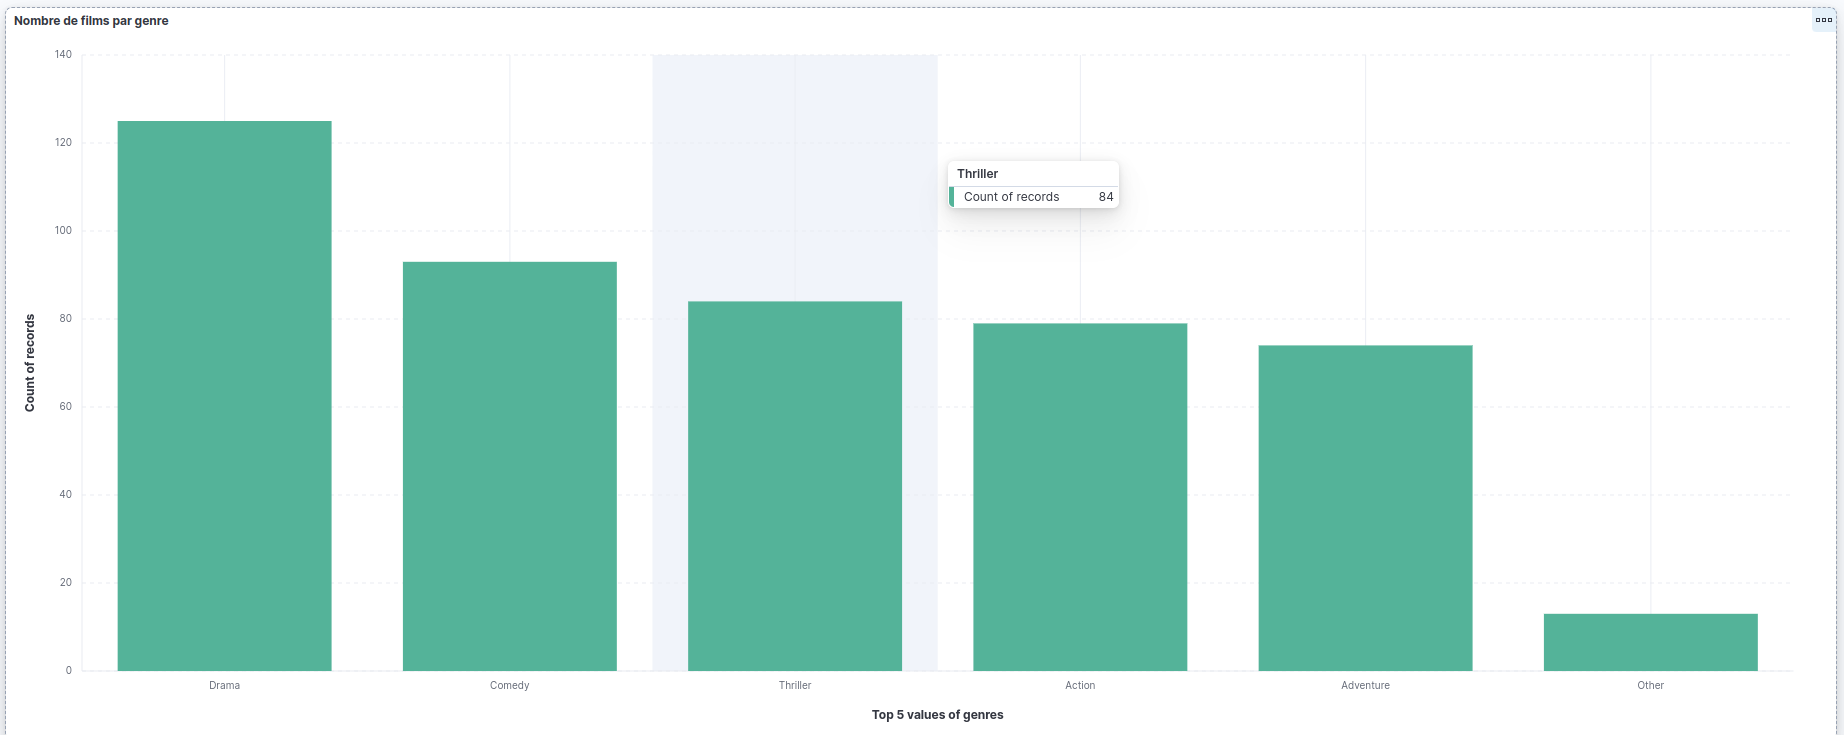
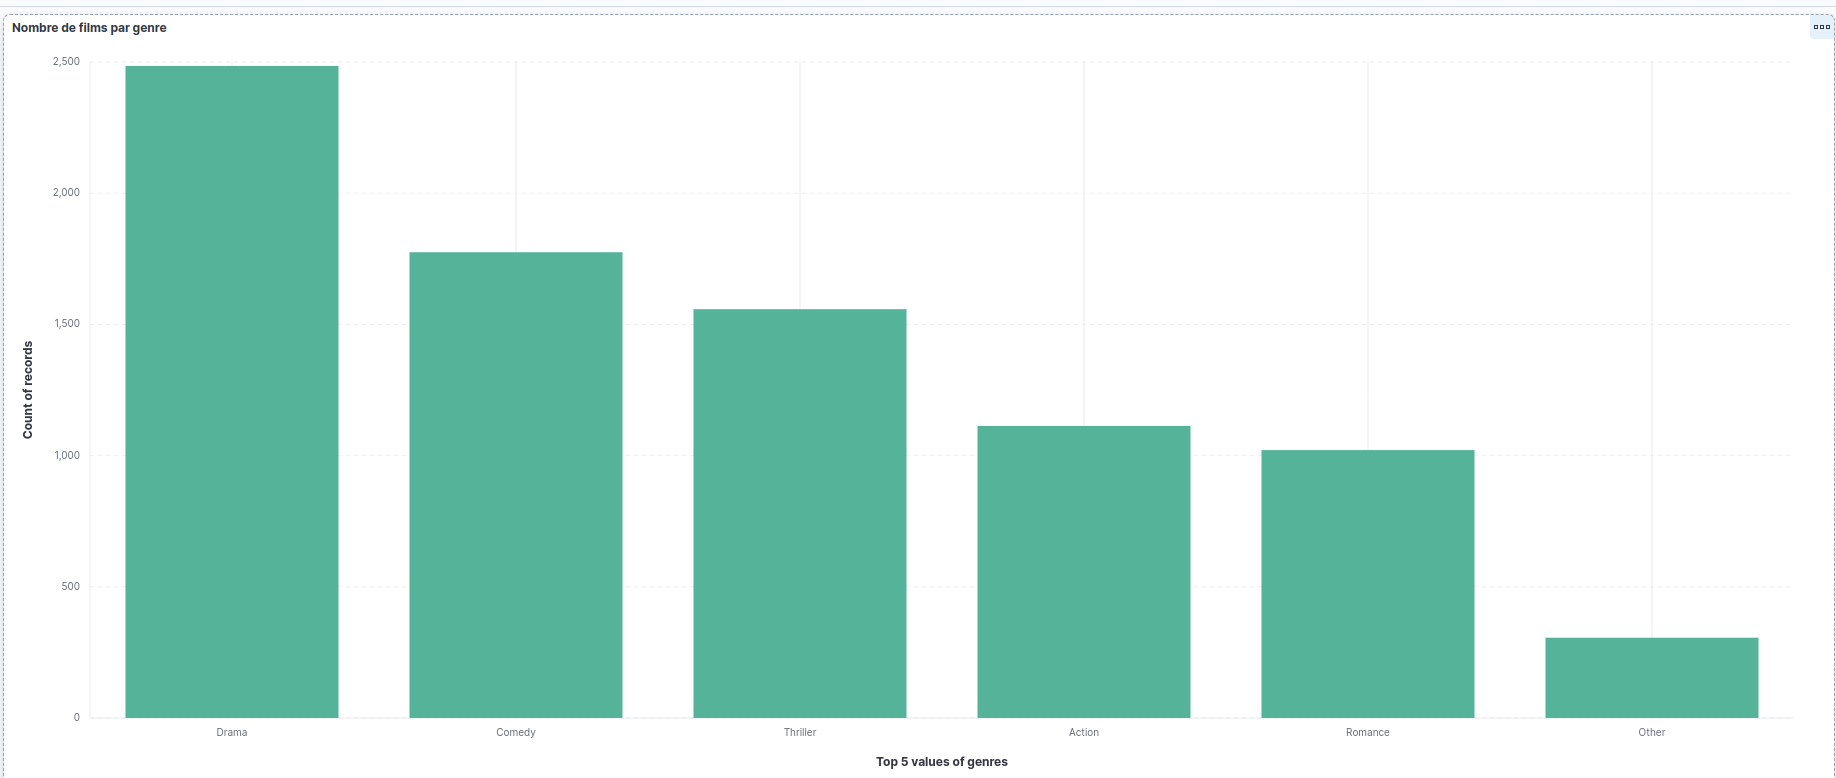
[FIX] Problème dans l'affichage des résultats

diff --git a/src/analytics.py b/src/analytics.py
@@ -1,17 +1,49 @@
 def global_stats(es, index="movies"):
     """Calcule les statistiques globales du dataset."""
-    aggs = {"avg_rating" :{"avg": {"field": "rating"}},
-            "min_rating" :{"min": {"field": "rating"}},
-            "max_rating" :{"max": {"field": "rating"}}}
-    result = es.search(index=index, size=0, aggs=aggs)
-    aggregations = result['aggregations']
-    
-    sortie = [{"Nombre total de films": result["hits"]["total"]["value"],
-    "Moyenne des notes" : round(aggregations['avg_rating']['value'],2),
-    "Note minimale" : round(aggregations['min_rating']['value'],2),
-    "Note maximale" : round(aggregations['max_rating']['value'],2)}] # Liste pour faciliter l'affichage
 
-    return sortie
+    aggs = {
+        "avg_rating": {"avg": {"field": "rating"}},
+        "min_rating": {"min": {"field": "rating"}},
+        "max_rating": {"max": {"field": "rating"}}
+    }
+
+    result = es.search(index=index, size=0, aggs=aggs)
+    aggregations = result["aggregations"]
+
+    # Film le mieux noté
+    best = es.search(
+        index=index,
+        size=1,
+        sort=[{"rating": "desc"}],
+        _source=["title", "rating"]
+    )
+
+    best_hit = best["hits"]["hits"][0]["_source"]
+
+    # Film le moins bien noté
+    worst = es.search(
+        index=index,
+        size=1,
+        sort=[{"rating": "asc"}],
+        _source=["title", "rating"]
+    )
+
+    worst_hit = worst["hits"]["hits"][0]["_source"]
+
+    return [
+        [{
+            "nombre_total_films": result["hits"]["total"]["value"],
+            "moyenne_notes": round(aggregations["avg_rating"]["value"], 2),
+            "note_minimale": round(aggregations["min_rating"]["value"], 2),
+            "note_maximale": round(aggregations["max_rating"]["value"], 2)}],
+
+        [{  "titre": best_hit.get("title"),
+            "note": best_hit.get("rating")}],
+
+        [{  "titre": worst_hit.get("title"),
+            "note": worst_hit.get("rating")}]
+    ]
+
 
 def top_genres(es, index="movies", size=10):
     """Top des genres les plus représentés."""
@@ -26,7 +58,7 @@ def top_genres(es, index="movies", size=10):
 
 
 def top_directors(es, index="movies", size=10):
-    """Top des genres les plus représentés."""
+    """Top des réalisateurs les plus représentés."""
     aggs = {"Top réalisateurs" : {"terms": {"field": "directors.keyword", "size": size}}}
     result = es.search(index=index, size=0, aggs=aggs)
 
@@ -37,7 +69,7 @@ def top_directors(es, index="movies", size=10):
     ]
 
 def top_actors(es, index="movies", size=10):
-    """Top des genres les plus représentés."""
+    """Top des acteurs les plus représentés."""
     aggs = {"Top acteurs" : {"terms": {"field": "actors.keyword", "size": size}}}
     result = es.search(index=index, size=0, aggs=aggs)
 
@@ -47,8 +79,7 @@ def top_actors(es, index="movies", size=10):
         for bucket in result["aggregations"]["Top acteurs"]["buckets"]
     ]
 
-def distribution(es, index="movies", size=10):
-    """Top des genres les plus représentés."""
+def distribution(es, index="movies"):
     aggs = {"Distribution par décennies" : {"histogram" : {"field": "year", "interval" : 10}}}
     result = es.search(index=index, size=0, aggs=aggs)
 

diff --git a/tests/test_analytics.py b/tests/test_analytics.py
@@ -1,10 +1,81 @@
 from elasticsearch import Elasticsearch
-from src.analytics import top_genres
+from src.analytics import global_stats, top_genres, top_actors, top_directors, distribution, best_rated_directors, best_rated_genres, evolution_note
 
 es = Elasticsearch("http://localhost:9200")
 
+
+def test_global_stats_nb_ok():
+    results = global_stats(es)
+
+    assert results[0]['Nombre total de films'] == es.count(index="movies")["count"]
+
+def test_global_stats_note_moy_ok():
+    results = global_stats(es)
+
+    assert results[0]['Moyenne des notes'] >= 0
+    assert results[0]['Moyenne des notes'] <= 10
 
 def test_top_genres_not_empty():
     results = top_genres(es)
 
     assert len(results) > 0
+
+def test_top_actors_not_empty():
+    results = top_actors(es)
+
+    assert len(results) > 0
+
+def test_top_directors_not_empty():
+    results = top_directors(es)
+
+    assert len(results) > 0
+
+def test_distribution_not_empty():
+    results = distribution(es)
+
+    assert len(results) > 0
+
+
+def test_distribution_contains_decennie():
+    results = distribution(es)
+
+    assert "decennie" in results[0]
+    assert "nb_films " in results[0]
+
+
+def test_top_genres_note_decroissante():
+    results = best_rated_genres(es)
+
+    notes = [r["note_moyenne"] for r in results]
+
+    assert notes == sorted(notes, reverse=True)
+
+
+def test_evolution_note_annee_croissante():
+    results = evolution_note(es)
+
+    annees = [r["annee"] for r in results]
+
+    assert annees == sorted(annees)
+
+
+def test_evolution_note_contains_fields():
+    results = evolution_note(es)
+
+    assert "annee" in results[0]
+    assert "note_moyenne" in results[0]
+    assert "nb_films " in results[0]
+
+
+def test_best_rated_directors_film_min():
+    results = best_rated_directors(es)
+
+    assert all(r["nb_films "] >= 3 for r in results)
+
+
+def test_best_rated_directors_note_decroissante():
+    results = best_rated_directors(es)
+
+    notes = [r["note_moyenne"] for r in results]
+
+    assert notes == sorted(notes, reverse=True)

diff --git a/src/main.py b/src/main.py
@@ -14,7 +14,7 @@ RESET = Style.RESET_ALL
 
 def format_result(results_json, taille_colonne=50):
     if not results_json:
-        print("Aucun résultat.")
+        print(ERROR + "Aucun résultat." + RESET)
         return
 
     keys = list(results_json[0].keys())
@@ -198,7 +198,11 @@ def main():
                 case "6":
                     print("\n--- Statistiques globales ---")
                     results = global_stats(es)
-                    format_result(results)
+                    format_result(results[0])
+                    print("Meilleur film")
+                    format_result(results[1])
+                    print("Pire film")
+                    format_result(results[2])
 
                 case "7":
                     print(menu_7)

diff --git a/src/search.py b/src/search.py
@@ -118,18 +118,3 @@ def suggest_titles(es, prefix, index="movies"):
         }
         for hit in hits
     ]
-
-# Option 2 : Completion suggester (plus performant)
-# Nécessite un champ "suggest" de type "completion" dans le mapping
-def suggest_titles_2(es, prefix, index="movies"):
-    """Auto-complétion basée sur un préfixe."""
-    query = {"prefix": {"title": prefix.lower()}}
-    
-    results = es.search(index=index, query=query)
-    hits = results['hits']['hits']
-    for hit in hits :
-        source = hit["_source"]
-        print("Titre :", source.get("title", "N/A"))
-    
-    if not hits :
-        print("Aucune suggestion possible.")

diff --git a/tests/test_search.py b/tests/test_search.py
@@ -82,4 +82,4 @@ def test_search_plot_contains_highlight():
         "dream"
     )
 
-    assert any("plot_highlight" in r for r in results)
+    assert any("highlights" in r for r in results)

diff --git a/README.md b/README.md
@@ -9,3 +9,6 @@ docker compose down
 
 # Arrêter et supprimer les volumes
 docker compose down -v
+
+# Lancer les tests
+python3 -m pytest -v
